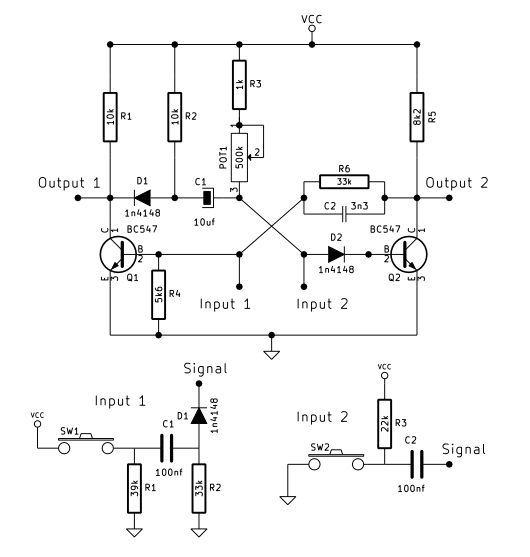
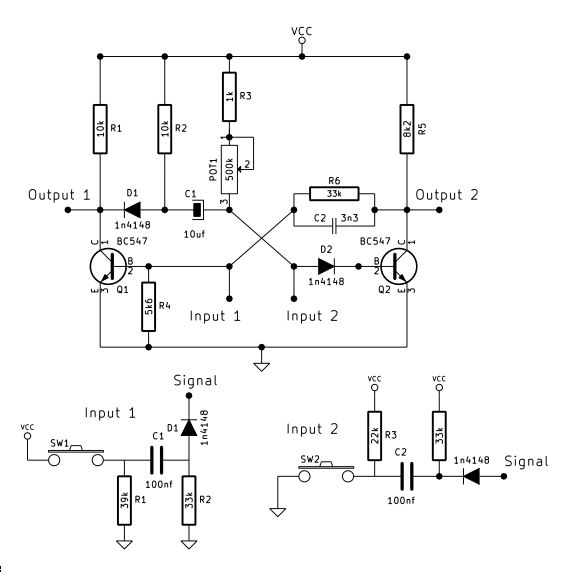
Huge update: new article, syntax check, images and so on

diff --git a/2015/07/05/monostable-multivibrator-math-and-mods.md b/2015/07/05/monostable-multivibrator-math-and-mods.md
@@ -4,34 +4,37 @@ tags: electronics
 public: yes
 summary: Circuit modifications to standard monostable multivibrator: accurate wave, delay variation, reverse bias protection
 
-In this small note I am going to explain some aspects of the standard well-known
-monostable multivibrator circuit, which, from my point of view, are not
-particularly well-described.
+In this small note I'll try to explain some aspects and mods of this standard
+well-known circuit, which, from my point of view, are not particularly
+well-described in the other sources.
 
-## Modifications to the basic circuit
-While building and testing the basic circuit, the following things were spotted
-which are not-so-good:
+## Modifications to the Basic Circuit
+
+While building and testing the basic analogue circuit, the following not-so-good
+things were spotted:
 
 - Output wave was not really square on both ends: the moment you add the 10uf
-  capacitor and 1M potentiometer, it becomes very rounded
-- No reverse bias protection for the transistor _Q2_.  Thus you can easily
-  damage it (in theory). In practice, I have a working circuit (astable
-  multivibrator), which I tested with -9v reverse voltage, and it was fine;
+  capacitor and 1M potentiometer, it becomes very-very rounded
+- No reverse bias protection for the base-emitter junction of transistor _Q2_.
+  Thus you can easily damage it (in theory). In practice, I have a working
+  circuit (astable multivibrator), which actually works with -9v momentary
+  reverse bias without any issues.
 
 All of these issues are identical to the drawbacks of another classical circuit,
 astable multivibrator. Therefore the proposed solutions will be very similar.
-Here is my circuit plus some explanations:
+Here is my variant plus some explanations:
 
 ![monostable circuit](/static/img/2015/07/04/monostable_and_inputs.png)
 
-- General recommendation: do not make _R3_ very big, 1M will already pose some problems. With big
+- Do not make _R3_ very big, 1M will already pose some problems. With big
   resistance, very small current enters the base of _Q2_, thus giving an
   opportunity to _Q1_ to open first, as much more current can enter its base.
   In addition, any fluctuation/noise of the power rail - for example, from DC
   motor - passed to the Q2 base can easily cut it off, therefore triggering
-  randomly the whole circuit mechanism.  In general, there is a well-known
+  the whole circuit mechanism. In general, there is a well-known
   principle: it is better to increase capacitance in order to increase a time
-  constant, but not resistance.
+  constant, but not resistance (Actually, every high impedance circuits have the
+  problem of picking up various stuff along the way :D)
 - The diode _D1_ provides the accurate square wave - rising edge - for the _Output
   1_ (collector of _Q1_) by _isolating_ the positive lead of capacitor _C1_
   from the collector of _Q1_. Without it - like in classical circuit -
@@ -41,36 +44,40 @@ Here is my circuit plus some explanations:
   non-conducting, isolating and providing accurate rise edge at the _Output 1_.
 - Resistor _R4_ improves the falling edge of the 2nd output (collector of
   _Q2_), by physically robbing off the electrons out from the base of _Q1_
-  => speeding its switch-off operation. It acts like pull down resistor here;
-  without it, the waveform was is rather round with delays long enough - (7 seconds,
-  for example). 
+  => speeding its "off" operation. Here it acts like a pull down resistor;
+  without it, the waveform was is rather round with delays long enough - (7
+  seconds, for example). 
 - Diode _D2_ protects base of _Q2_ from breakdown caused by a negative pulse by
   increasing the overall reverse voltage limit (= diode breakdown voltage +
   base-emitter reverse voltage limit)
 - Also, do not try to AC couple negative pulse directly to the base of _Q2_
-  directly without clamping diode - it will not work, as the rising front of the
-  pulse will turn on _Q2_ back (the base will be isolated from the negative lead
-  of electrolytic).  Exactly because of this there is a diode at the input of
-  _Q1_ - it will pass a positive change, but will clamp the negative change.
+  without a clamping diode - it will not work, as the rising front of
+  the pulse will turn on _Q2_ back. The reason is very simple: if you apply
+  negative pulse directly to the base, the diode will prevent it from going
+  to the negative of a cap, thus leaving it's potential unchanged; from the
+  other side, for a short moment of time _Q2_ will be closed => base of _Q1_
+
+  be isolated from the negative lead of electrolytic during the pulse thus
+  cap potential will stay unchanged  will pass a positive change, but will clamp the negative
+  change.
 - _R5_ and _R6_ resistors: when Q2 is closed and _Output 2_ is _HIGH_, the
   relation of _R5_ and _R6_ determine the output value as it is basically the
-  voltage divider: _R5_ - _R6_ - _Q1 base/emitter junction_. In other words, if you want
-  _HIGH_ value of _Output 2_ be as close as possible to _Vcc_, you must lower
-  _R5_ and increase _R6_.
+voltage divider: _R5_ - _R6_ - _Q1 base/emitter junction_. In other words, if
+you want _HIGH_ value of _Output 2_ be as close as possible to _Vcc_, you must
+lower _R5_ and increase _R6_.
 
 ## Inputs
 Some why?-answers are required for the inputs:
 
-- For _Input 1_ clamping diode+resistor clamping is necessary, otherwise the
-  negative pulse will turn-off Q1 back (remember, in general caps pass only 
-  **changes** in voltage relative to the common wire potential. Diode passes
+- For _Input 1_ diode+resistor clamping is necessary, otherwise the
+  negative pulse will turn-off Q1 back: diode passes
   only positive changes to the base of _Q1_, while resistor dumps the negative
   change.
-- For _Input 2_ situation is different, as there is a diode, which does not
-  pass the negative changes anyway.
-- Resistor values were taken arbitrarily: they should not be too big and too
-  small, as mega-ohm range will be more like open-circuit, thus slowing pull-up
-  and pull-down actions.
+- For _Input 2_ situation is practically the same, just a small reorganisation
+  to provide negative pulse ("ground" Q2 base, thus close Q2).
+- Resistor values were taken arbitrarily, but tested: they should not be too
+  big and too small, as mega-ohm range will be more like open-circuit, thus
+  significantly slowing pull-up and pull-down actions.
 
 ## Math
 Personally, I always wondered, why the charging time of the _C1_ is _ln(2) * R
@@ -80,6 +87,10 @@ common wire, by a value usually equal to HIGH and becoming approximately equal
 -Vcc, therefore the real potential difference between this side and Vcc is doubled
 as a "distance" between -Vcc and Vcc is equal to _2 * Vcc_ and therefore,
 charging voltage is 2 x Vcc, producing this magic 2 in the math derivations.
+
+Overall, math for monostable is very similar to Astable, as the "fire time" is
+dictated by the "astable" part of the circuit; for the further explanations,
+please read [this](https://en.wikipedia.org/wiki/Multivibrator#Derivation).
 
 ## Soldering
 Finally, here are the soldering schemes created using [ASCii-pcB](https://github.com/rhaido/ascii-b):

diff --git a/2015/10/28/simple-l-meter.md b/2015/10/28/simple-l-meter.md
@@ -1,0 +1,155 @@
+title: Very-Very Simple L-Meter
+tags: electronics
+      meters
+public: yes
+summary: The proposed very simple addition to the digital DMM with frequency counter capability allows you - after certain calibration - to calculate the _L_-value of unknown inductor. ![coils](/static/img/2015/10/coils.jpeg)
+
+If you start to play with coils and inductors, at some point you will want to
+measure them. After some search in web, this
+[circuit of a simple inductance (L-) meter](http://www.edn.com/design/test-and-measurement/4315796/Cheap-and-easy-inductance-tester-uses-few-components#comments)
+was found. Its advantage is simplicity and low number of parts, although calibration
+and tuning for the other voltage supply values takes certain amount of time. In addition,
+original explanation of the circuit does not really give an idea, how the whole thing works,
+so here the attempt is made to explain it "a little bit better".
+
+## 3v Circuit
+
+As I do not have holders for one AA battery, I decided to switch to 3v and
+here is the result:
+
+![simple-l-meter.png](/static/img/2015/10/simple-l-meter-schema.png)
+
+## How the circuit works.
+
+Without a coil/inductor - it's a basic flip-flop/bistable circuit;
+coil/inductor introduces a positive feedback and whole thing starts to
+oscillate.
+
+1. Without an inductor, one transistor will conduct and another one will be closed
+(as usually). For the matter of simplicity, let suppose Q1 is closed and Q2 is conducting.
+1. When we introduce an inductor, its lead connected to the collector of Q1 sees
+HIGH, and lead connected to the collector of Q2 sees LOW =>
+potential difference, and the current starts to flow.
+1. Initially the resistance of the coil is very big (as it resists to the changes of the
+current) - voltage drop is close to _Vcc_ value (and Q2 base sees that); but
+little by little it goes down as current increases => voltage on the Q1 collector
+reduces.
+1. As the collector of Q1 is connected to the base of Q2, potential of the Q2
+base is also reducing, thus closing the transistor Q2 and by this opening the Q1
+1. At some moment of time the potential of the Q1 collector will be low enough
+to close Q2 and open Q1 (both to some extent) => again you have the potential 
+difference and the steps 2-5 repeat the reversed roles.
+
+Resistance of the circuit should be correctly chosen to allow _L_ component of
+the circuit have enough influence on the _L/R_ constant. In this case the frequency of
+oscillation will be directly proportional to the _L_ of the
+inductor. If you measure the frequency with the reference inductor and
+then measure the frequency of oscillation with an unknown inductor,
+desired inductance value then can be calculated using the following formula:
+
+**L = <reference inductance\> * (f1/f2)**
+
+where
+
+- _f1_ - oscillation frequency of the circuit with reference inductor
+- _f2_ - oscillation frequency of the circuit with the desired inductor
+
+Also note that the frequency also depends on the intrinsic resistance of the coil
+- i.e. if the coil resistance in 30 Ohm, expect the _L/R_ constant be affected by
+this and most likely the result won't be as declared on a "label".
+
+## Resistance of the pot
+
+In order to obtain the correct "base" frequency, I set the resistance of the
+pot to ~175 Ohm. Try several settings with different already known inductors,
+and see, will it work for you or not. If not - I usually try to adjust
+the collector resistors within 39-130 Ohm range and emitter
+resistor within 100-360 Ohm range.
+
+For the original 1.5v circuit my values were 47 Ohm for collector resistors and 68
+Ohm - for emitter.
+
+## Components used
+
+- 2 x BC 549 transistors - might be good idea to use higher frequency transistors, but
+  these ones are OK
+- 2 x 100 Ohm resistance
+- 1x200 Ohm Cermet pot - this small blue pot is very handy and has better "turn" range
+  then the majority of crap pots. Try also small multi-turn ones - with 10+ turns -
+  you'll be able to make your adjustment much finer! I used the one I found in my parts'
+  box.
+- 90-degree pins to interface breadboard
+- for component interconnections - wire 0.35/0.4 mm.
+
+## Measurements
+
+Apply DMM leads between the collector and emitter of any transistor (in other
+words, Q1/Q2 collector and pin 1 of the pot); I had to connect the positive
+"red" one to the collector, and the common wire "black" one to pin 1 of the
+pot. Strangely enough, my Bryman refused to measure another way round, while
+Fluke 87 (first gen.) measured in all possible connections and variations.
+
+DMM should be set to _mV_ range.
+
+Small inductors can be measured using this procedure:
+
+1. Introducing it in series with already known/measured inductors,
+1. Measure _f2_, and get resulting _L_
+1. Subtract known inductance from _L_ and get the desired value.
+
+The estimation is rather rough, but still can give you and idea.
+
+## Measurement Jig
+
+General breadboard can be used as a jig. Here is the way I'm using it:
+
+![simple-l-meter-jig-01](/static/img/2015/10/simple-l-meter-jig-01-web.jpg)
+
+![simple-l-meter-jig-02](/static/img/2015/10/simple-l-meter-jig-02-web.jpg)
+
+I take measurements between one of the orange leads (going to inductor) and a green one.
+
+## Soldered
+
+![simple-l-meter-soldered](/static/img/2015/10/simple-l-meter-soldered-web.jpg)
+
+## Component placement
+
+Top view:
+
+![components-topview](/static/img/2015/10/simple-l-meter-soldermap.jpg)
+
+Flipped (for soldering):
+
+![components-bottomview](/static/img/2015/10/simple-l-meter-soldermap-flipped.jpg)
+
+## Calibration
+
+To calibrate set of the inductors (bought from eBay) was used: 100, 330, 470,
+1000 uH (from eBay) and 10mH from [Talking
+Electronics](http://www.talkingelectronics.com/) transistor kit. As the
+intrinsic resistance of the inductor modifies the L/R constant, therefore use
+the ones with the lowest possible value of this parameter.
+
+Here is the procedure:
+
+1. Set the circuit's POT to ~175 Ohm in order to obtain the frequency around
+355 kHz with 100uH (+-10%) inductor
+1. Measure the frequency of the second inductor - I used the value of
+1000 uH and got the frequency of 34.83 kHz
+1. The resulting inductance is the product of _100uH *
+(354 kHz / 34.83 kHz) =~ 1016 uH_.
+
+Measure all available reference inductors - remember, the intrinsic resistance
+influence the frequency. If you have inductance values higher then expected -
+first check the DC resistance of the inductor. I have an inductor with 25 Ohm resistance!
+
+You must check calibration after a pause to make sure there is no significant drift. Also,
+frequency depends on a power supply - with the discharge of the batteries expect it to drift
+with the same circuit settings.
+
+## Conclusion
+
+Using this circuit I now can roughly estimate various inductors I wind for my projects :)
+
+_Mike_

diff --git a/2015/10/08/old_elektor_index.md b/2015/10/08/old_elektor_index.md
@@ -1,5 +1,6 @@
 title: Index of Old Elektor Issues
 tags: Elektor
+      electronics
 public: no
 summary: Index of old elektor issues is building here...
 
